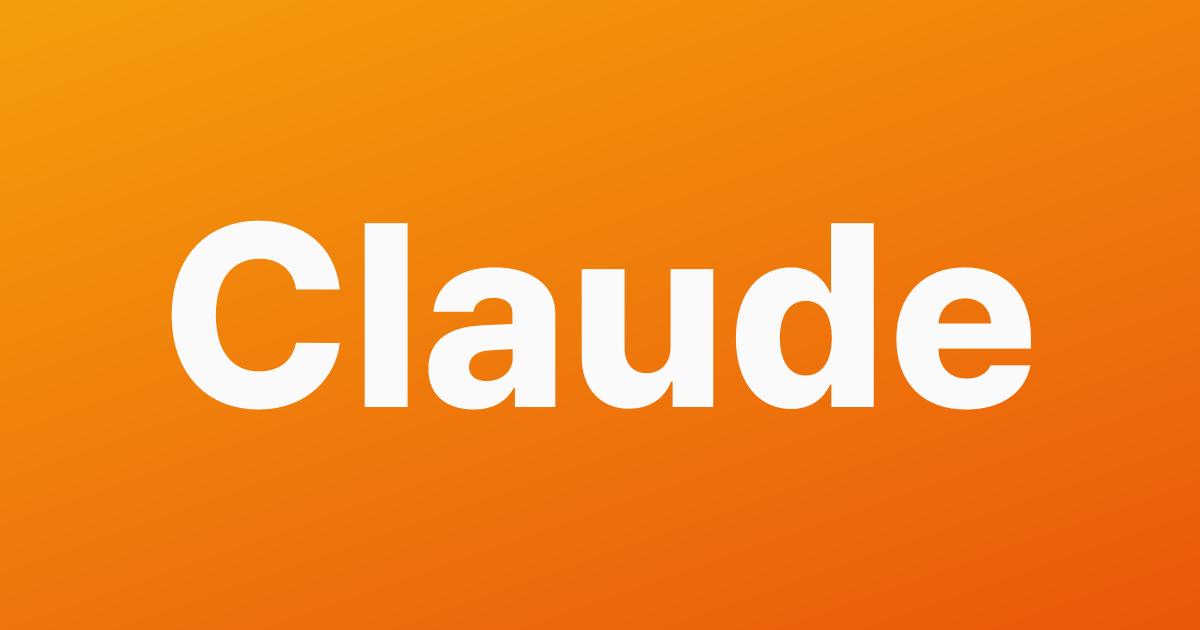
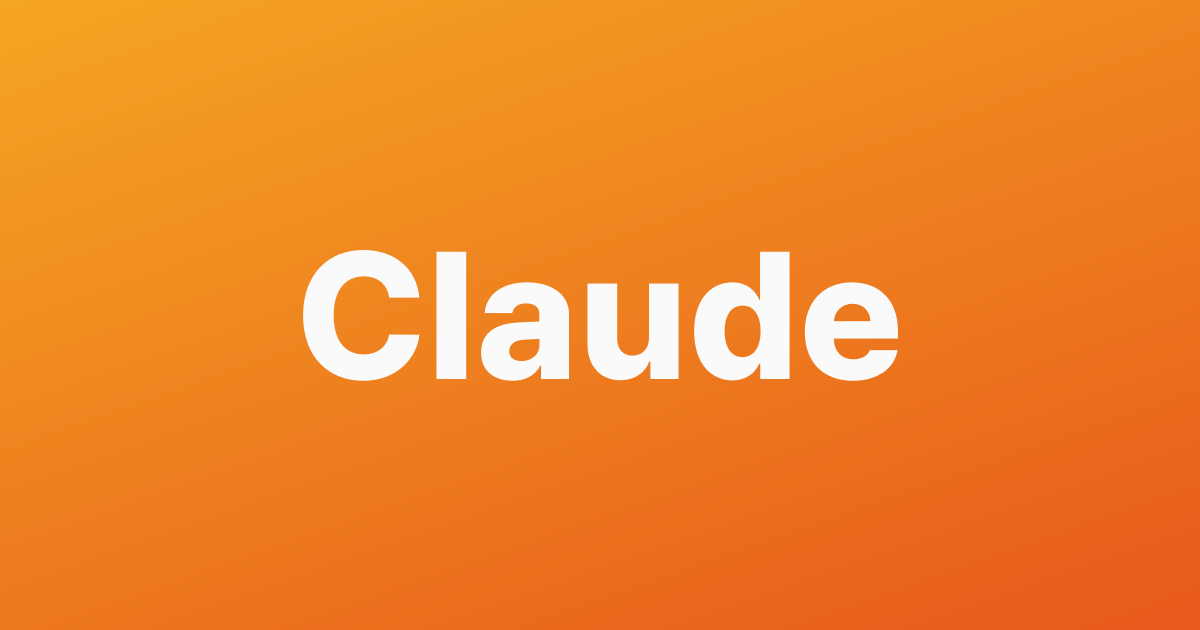
blog: Claude Design 학습 노트 v2 + 시스템 개선

Changed region(s): [[0.1233, 0.3317, 0.8633, 0.6635]]

diff --git a/scripts/thumbnail.py b/scripts/thumbnail.py
@@ -136,13 +136,13 @@ def generate_thumbnail(
 
     # 폰트 크기 (텍스트 길이에 따라)
     if len(display) <= 6:
-        font_size = 260
+        font_size = 180
     elif len(display) <= 10:
-        font_size = 200
+        font_size = 140
     elif len(display) <= 15:
-        font_size = 150
+        font_size = 110
     else:
-        font_size = 120
+        font_size = 90
 
     font = _find_font(font_size)
 

diff --git a/_posts/2026-04-22-claude-design-study-note.md b/_posts/2026-04-22-claude-design-study-note.md
@@ -9,53 +9,53 @@ image:
   alt: "Claude Design 공부 정리 | 디자이너 없이 디자인이 가능해진다면"
 ---
 
-Anthropic 블로그에서 `Claude Design` 이라는 새 제품 발표가 올라와서 읽어봤다.
+요즘 Anthropic 블로그를 종종 들어가 보는 편인데, 며칠 전에 `Claude Design` 이라는 새 제품이 올라와 있었다.
 
-"디자이너가 아닌 사람도 대화로 프로토타입, 슬라이드, 원페이저를 만들 수 있게 한다"는 소개였는데, 디자이너 입장에서 몇 가지 걸리는 게 있어서 정리해봤다.
+읽어보니 "디자이너가 아닌 사람들도 대화로 프로토타입이나 슬라이드를 만들 수 있게 해주는 도구"라고 했다. 디자이너로 일하는 입장에서 좀 묘한 기분이 들어서, 정리해두면 좋을 것 같아 메모를 남긴다.
 
 ## **1⃣ 이게 뭐냐?**
 
-Claude Opus 4.7 기반으로 돌아가는 비주얼 제작 툴이다. 주요 타깃은 **디자이너가 아닌 사람**. 창업자, PM, 마케터처럼 "아이디어는 있는데 시각화 도구를 못 다루는 사람들"이다.
+Claude Opus 4.7이라는 새 모델 위에서 돌아가는 비주얼 제작 툴이라고 한다. 주요 타깃은 **디자이너가 아닌 사람들**이었다. 창업자, PM, 마케터처럼 "아이디어는 있는데 시각화 도구를 잘 다루지 못하는 사람들" 말이다.
 
-사용법은 단순해 보였다.
+사용 방식은 단순해 보였다. 예를 들면 이런 식이다.
 
-> "serene mobile meditation app 프로토타입 만들어줘. 차분한 타이포그래피, 자연 느낌 색상, 클린한 레이아웃."
+> "차분한 느낌의 명상 앱 프로토타입 만들어줘. 자연 느낌 색상에 깔끔한 레이아웃으로."
 
-이런 식으로 말하면 초안이 나오고, 거기서 "다크 모드 토글 추가해줘" 같은 요청으로 계속 다듬는다. 결과물은 PDF, PPTX, HTML로 내보내거나 Canva로 보낼 수도 있다.
+이렇게 말하면 초안이 나오고, 거기서 "다크 모드 토글 추가해줘" 같은 요청을 덧붙여 가며 다듬어 가는 흐름이다. 결과물은 PDF나 PPTX, HTML로 내보내거나 Canva로 보낼 수도 있다고 한다.
 
-👉🏻 특히 눈에 띈 건 **"팀의 디자인 시스템을 읽어 와서 적용한다"** 는 부분. Anthropic 설명으로는 회사 코드베이스와 디자인 파일을 분석해서 컴포넌트 스타일을 맞춘다고 한다.
+👉🏻 그중에서 눈에 띈 건 **"팀의 디자인 시스템을 읽어 와서 적용한다"** 는 부분이었다. 회사 코드베이스랑 디자인 파일을 분석해서 컴포넌트 스타일을 맞춰준다는 설명이 있었다. 이게 진짜로 잘 된다면 꽤 큰 의미가 있겠다 싶었다.
 
-## **2⃣ 내가 든 생각**
+## **2⃣ 읽으면서 든 생각**
 
-읽으면서 조금 복잡한 감정이 들었다.
+읽다 보니 마음이 조금 복잡해졌다.
 
-Anthropic이 포지셔닝한 건 "Canva를 대체하는 게 아니라 보완한다"는 쪽이다. 실제로 Canva와 파트너십도 맺었고, Claude Design에서 만든 걸 Canva로 보내 편집하는 흐름도 지원한다. 근데 이 구도가 오래갈지는 잘 모르겠다.
+Anthropic은 "Canva를 대체하는 게 아니라 보완한다"는 식으로 포지셔닝했고, 실제로 Canva와 파트너십도 맺었다고 했다. 만든 결과물을 Canva로 보내서 편집할 수 있는 흐름도 지원한다고 한다. 다만 이 구도가 오래 갈지는 잘 모르겠다.
 
-중요한 건 이 질문이었다.
+읽으면서 이런 질문이 떠올랐다.
 
-> 💡 **디자이너가 아닌 사람이 "초안"을 만든다는 게 뭘 바꾸는 걸까?**
+> 💡 **디자이너가 아닌 사람이 "초안"을 만든다는 게, 결국 무엇을 바꾸는 걸까?**
 
-지금까지 디자이너와 비디자이너 사이엔 **"눈에 보이는 걸 만드는 능력"** 이라는 벽이 있었다. 머릿속 아이디어를 누군가에게 보여주려면 피그마든 키노트든 **도구를 배워야** 했다. 그 벽이 낮아지는 건 맞다.
+지금까지는 디자이너와 비디자이너 사이에 **"눈에 보이는 걸 만드는 능력"** 이라는 벽이 분명히 있었던 것 같다. 머릿속에 있는 걸 누군가에게 보여주려면 피그마든 키노트든 어쨌거나 도구를 배워야 했으니까.
 
-근데 초안을 만드는 것과 **좋은 디자인을 판단하는 것**은 다른 문제다. PM이 Claude Design으로 뽑은 화면 10개 중에서 뭐가 쓸만한지 고르는 건 여전히 안목이 필요한 일이다.
+그 벽이 낮아지는 건 맞아 보인다. 다만 초안을 만들어내는 것과 **좋은 디자인을 알아보는 것**은 좀 다른 얘기인 것 같다. PM이 Claude Design으로 화면을 10개 뽑았을 때, 그중에 뭐가 쓸만한지를 골라내는 건 여전히 안목이 필요한 일이다.
 
 ## **3⃣ 디자이너로서 뭐가 달라질까?**
 
-직접 써보진 못했으니 써봐야 알겠지만, 지금 드는 예상은 이렇다.
+직접 써보지는 못했으니 써봐야 알겠지만, 지금 막연히 드는 생각은 이렇다.
 
-프로덕트 디자이너의 역할이 **"화면을 직접 그리는 사람"** 에서 **"비디자이너가 만든 초안을 품질 있게 다듬는 사람"** 으로 조금 이동할 것 같다. 마치 개발자 역할이 코딩에서 코드 리뷰와 아키텍처 판단 쪽으로 비중이 옮겨가는 것처럼.
+프로덕트 디자이너의 역할이 조금씩 **"화면을 직접 그리는 사람"** 에서 **"비디자이너가 만든 초안을 다듬는 사람"** 쪽으로 옮겨가지 않을까 싶었다. 개발자도 비슷하지 않나. AI가 코드를 잘 써주게 되면서, 짜는 일보다 리뷰하고 구조를 잡는 비중이 점점 커지는 것 같다.
 
-Anthropic이 강조한 "디자인 시스템 자동 적용" 기능도 같은 맥락이다. 시스템이 잘 구축돼 있으면 AI가 꽤 쓸만한 결과물을 낼 수 있다. 반대로 시스템이 없으면 AI도 그냥 흔한 결과물만 찍어낸다.
+Anthropic이 강조한 "디자인 시스템 자동 적용" 기능도 같은 맥락에서 흥미로웠다. 시스템이 잘 정리돼 있으면 AI가 꽤 쓸만한 걸 만들어 줄 수 있겠지만, 시스템이 없으면 AI도 그냥 흔한 결과물밖에 못 낼 것 같다.
 
-결국 **디자이너가 만든 시스템의 품질이 AI 결과물의 천장**이 되는 구조다.
+그러니까 결국 **디자이너가 만들어 둔 시스템의 품질이, AI가 만들어 내는 결과물의 천장**이 되는 셈이다.
 
 ## **⭐ 마지막으로, 디자이너-개발자 학습자 관점에서 느낀 점**
 
-이번에 Claude Design 발표를 읽으면서 중요한 건 **"AI가 디자인을 대신한다"** 가 아니라 **"내가 만든 시스템이 AI의 출력 품질을 결정한다"** 는 감각이었다.
+이번에 Claude Design 발표를 보면서 가장 크게 다가온 건 **"AI가 디자인을 대신한다"** 가 아니라 **"내가 만들어 둔 시스템이 AI의 결과를 결정한다"** 는 감각이었다.
 
-코드 짜는 걸 배우면서도 비슷한 걸 느낀다. AI가 코드를 잘 써주려면 내가 설계한 구조가 먼저 깔끔해야 한다. 디자인도 똑같은 것 같다. 내가 만든 컴포넌트와 토큰이 잘 정리돼 있어야 AI가 그 위에서 좋은 결과를 낸다.
+요즘 코드를 배우면서도 비슷한 걸 자주 느낀다. AI가 좋은 코드를 써주려면 내가 짜둔 구조부터 깔끔해야 한다. 디자인도 비슷한 것 같다. 컴포넌트랑 토큰이 잘 정리돼 있어야 AI가 그 위에서 쓸만한 결과를 낸다.
 
-그래서 지금 시점에 디자이너가 해야 할 건, AI를 두려워하거나 따라잡으려 하는 게 아니라 **내 시스템을 더 잘 만드는 연습**인 것 같다.
+그래서 지금 시점에 디자이너가 해야 할 건, AI를 따라잡으려 하기보다 **내 시스템을 더 잘 만드는 연습**이 아닐까 싶다. 적어도 지금은 그런 결론에 가까워지고 있다.
 
 ---
 

diff --git a/_posts/2026-04-22-blog-automation-setup-note.md b/_posts/2026-04-22-blog-automation-setup-note.md
@@ -1,0 +1,83 @@
+---
+title: "블로그 자동화 세팅하면서 걸렸던 것들 정리"
+description: "하루 동안 블로그 자동 포스팅 시스템을 만들면서 마주친 문제들과 톤을 잡아간 과정을 기록했다."
+date: 2026-04-22 21:00:00 +0900
+categories: [DevTools]
+tags: [automation, github-actions, claude-code, workflow]
+image:
+  path: /assets/img/thumbnail/auto-20260422-blog-automation-setup-note.png
+  alt: "블로그 자동화 세팅하면서 걸렸던 것들 정리"
+---
+
+이 레포에 며칠마다 자동으로 새 글이 올라가는 시스템을 하루 동안 만들어봤다. 시작할 땐 "몇 줄만 쓰면 되겠지" 했는데, 초반엔 구조 잡는 데, 중반엔 워크플로우가 계속 멈춰서 뭐가 문제인지 찾는 데 시간이 들었다.
+
+끝내고 보니 커밋이 열두 개였다. 오늘의 기록을 단계별로 정리해둔다.
+
+## **1⃣ 뭘 만들었나**
+
+이번에 만든 건 크게 세 조각이다.
+
+**① 후보 수집 (Python 스크립트)**
+`scripts/prepare.py`가 공식 블로그 RSS를 크롤링해서 `candidates.json`에 쌓아둔다. Figma, React, Vercel, Anthropic 공식 블로그만 돌도록 제한했다. Medium이나 dev.to 같은 2차 소스는 뺐다. 글이 너무 다양한 톤으로 섞이면 학습 노트의 일관성이 흐트러질 것 같아서.
+
+**② 글 작성 (GitHub Actions에서 Claude Code 호출)**
+`.github/workflows/auto-blog.yml`이 3일마다 돌면서 `anthropics/claude-code-action`을 띄운다. 거기서 `prompts/claude_instructions.md`의 스텝을 따라 후보 중 하나를 골라 한국어 학습 노트로 재구성한다.
+
+**③ 썸네일 자동 생성**
+`scripts/thumbnail.py`가 카테고리별 그라데이션 배경에 영어 키워드 한 개만 크게 얹은 썸네일을 만든다. 피그마 시안을 Pillow로 옮긴 거라 폰트 사이즈·정렬만 값으로 관리한다.
+
+## **2⃣ 연쇄 버그 구간**
+
+문제는 워크플로우를 처음 돌린 순간부터 시작됐다.
+
+**(1) `prompt_file` 키가 없다**
+처음엔 Claude Code Action에 `prompt_file:`로 지시문 경로를 넘겼는데, v1 API에선 `prompt:`에 내용을 직접 넣어야 하는 구조였다. 워크플로우에서 `cat prompts/...` 해서 `GITHUB_OUTPUT`으로 밀어넣는 방식으로 바꿨다.
+
+**(2) `max-turns 25`로는 한 편도 못 쓴다**
+후보 읽고 → WebFetch로 원문 읽고 → 스타일 가이드 읽고 → 본문 쓰고 → 썸네일 호출하고 → state 업데이트하고… 25턴은 중간에 끊겼다. 60으로 늘렸더니 여유가 생겼다.
+
+**(3) `allowedTools`가 빠져서 파일 쓰기 실패**
+Action 기본값으론 Read만 허용되더라. `Read,Write,Edit,Bash,WebFetch,Glob,Grep`을 명시적으로 넣었다.
+
+**(4) `git push` 인증 실패**
+`GITHUB_TOKEN`이 있는데도 푸시가 401로 떨어졌다. `git remote set-url origin "https://x-access-token:${GH_TOKEN}@..."`로 원격 URL을 재설정해서 풀었는데, 기본 체크아웃에서 왜 안 되는 건지는 아직 확실히 모르겠다.
+
+**(5) 카테고리 하이픈 문제**
+첫 자동 글이 올라갔는데 Chirpy 테마가 `[dev-tools]` 같은 하이픈 있는 카테고리를 링크로 못 깔더라. 카테고리 ID(`dev-tools`)와 프론트매터 표기(`DevTools`)를 분리했다.
+
+각각 따로 보면 사소한 문제였는데, 워크플로우 안에서 연달아 터지니까 디버깅이 제법 고됐다. 에러 하나 고치고 다시 돌려서 다음 에러를 보는 식이라, 한 번 반영에 워크플로우 한 사이클이 그대로 기다림이 됐다.
+
+> 💡 **여기서 든 질문?**
+여기까지 와도 아직 "글의 퀄리티"는 손 못 댄 상태였다. 돌아는 가는데, 나오는 글이 어떤지는 보고 난 뒤였다.
+
+## **3⃣ 돌려보니 글에서 AI 티가 난다**
+
+첫 자동 생성 글을 열어보니 내가 평소 쓰는 말투가 아니었다. "이는 혁명적 변화다", "많은 개발자들이", "X의 본질은 Y다" 같은 문장이 섞여 있었다. 스크립트가 동작한 것보다 글이 어색한 게 더 큰 문제로 느껴졌다.
+
+그래서 하루의 후반은 구조보다 **톤**을 잡는 데 썼다.
+
+- `prompts/style_guide.md`에 AI 티 나는 표현 블랙리스트를 따로 뒀다. "혁명적", "게임 체인저", "Forrester가 분석한…" 같은 표현이 나오면 바로 빼도록.
+- `prompts/author_context.md`로 작성자 페르소나를 분리했다. "단정 대신 조심스러운 관찰", "배우는 중", "질문이 결론보다 앞선다" 같은 축으로.
+- `claude_instructions.md`에 **Step 4: 스타일 파일 학습 (필수)**를 못 박았다. 이걸 안 읽으면 이전 패턴이 계속 나왔다.
+
+이렇게 분리하니 한 번의 글이 한 파일에서 전부 해결되지 않고, 스타일·페르소나·지시문 세 층으로 나뉘었다. 처음엔 오버엔지니어링 같았는데, 돌려보니 말투가 흔들릴 여지가 확실히 줄었다.
+
+## **4⃣ 썸네일도 결국 톤이다**
+
+마지막엔 썸네일을 만졌다. 피그마 시안대로 Pretendard ExtraBold · 그림자 없음 · 배경 밝기에 따라 텍스트 색이 자동으로 바뀌는 v3까지 정리했다. 그러고도 한 가지가 걸렸다. **글자가 너무 컸다.** 260px로 꽉 찬 "Claude"가 답답해 보였다.
+
+폰트 크기 테이블을 전체적으로 180/140/110/90으로 낮췄더니 여백이 숨쉬는 느낌이 들었다. 디자인 쪽에서 늘 하던 조정이라 결국 손이 먼저 갔다.
+
+## **⭐ 마지막으로, 자동화를 세팅하며 든 생각**
+
+이번에 공부하면서 블로그 자동화에서 중요한 건
+**"매일 글이 올라가게 만드는 것"**이 아니라
+**"내가 쓸 법한 글만 올라가게 만드는 것"**이라는 생각이 들었다.
+
+기술 쪽 문제는 결국 시간 들이면 풀렸다. 근데 톤은 풀리는 문제가 아니라 **정의하는** 문제였다. 스타일 가이드·페르소나·지시문을 나눠 쓴 것도, 결국 "내 말투를 언어로 한 번 더 설명해두는 작업"에 가까웠다.
+
+잘 돌아가는 파이프라인보다, 파이프라인 끝에서 **내가 낯설어하지 않는 글**이 나오게 만드는 쪽이 훨씬 품이 많이 들었다. 다음 자동 생성 글이 어떻게 올라올지 조심스럽게 지켜볼 생각이다.
+
+---
+
+> 참고: 오늘 작업한 커밋 히스토리와 `scripts/`, `prompts/`, `.github/workflows/auto-blog.yml` 파일들
